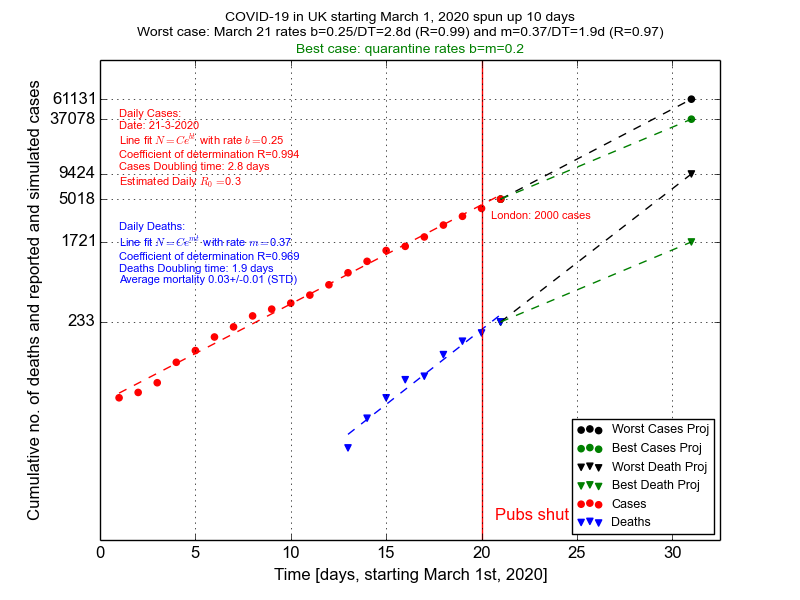
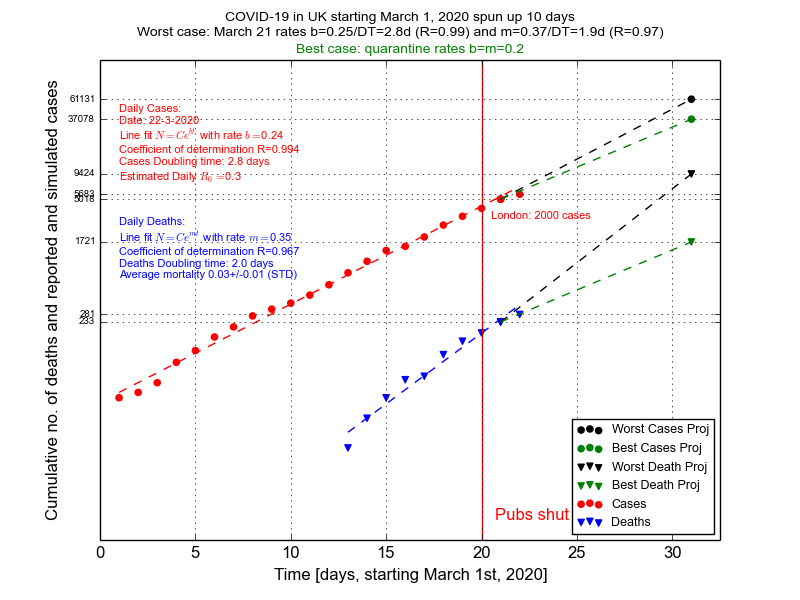
today 22 Mar results UK

diff --git a/cov_lin_models_refactored.py b/cov_lin_models_refactored.py
@@ -361,6 +361,10 @@ def make_simulations_plot(variable_pack, country):
      poly_x_d, y_err, y_err_d, plot_text, plot_text_s,
      plot_text_d, plot_name, slope_d, slope) = variable_pack
 
+    # extract last points for dsiplay
+    curr_case = y_data_real[-1]
+    curr_death = y_deaths_real[-1]
+
     # simulate by death rate scenario
     sim_y_0_real = np.array(y_deaths_real) * 200.  # mrate=0.005
     sim_y_1_real = np.array(y_deaths_real) * 100.  # mrate=0.01
@@ -479,9 +483,11 @@ def make_simulations_plot(variable_pack, country):
         # projection data and ticks
         x0, y0, y0d, y, yd, y_min, yd_min = _compute_projection_uk()
         log_ticks = [np.log(y0), np.log(y), np.log(y0d), np.log(yd),
-                     np.log(y_min), np.log(yd_min)]
+                     np.log(y_min), np.log(yd_min), np.log(curr_case),
+                     np.log(curr_death)]
         real_ticks = [int(y0), int(y), int(y0d), int(yd),
-                      int(y_min), int(yd_min)]
+                      int(y_min), int(yd_min), int(curr_case),
+                      int(curr_death)]
 
         # if slowdown
         if country in SLOWDOWN:
@@ -515,6 +521,7 @@ def make_simulations_plot(variable_pack, country):
         # plot anciliaries
         plt.xlim(0., x0 + 11.5)
         plt.yticks(log_ticks, real_ticks)
+        plt.tick_params(axis="y", labelsize=7)
         plt.xlabel("Time [days, starting March 1st, 2020]")
         plt.ylabel("Cumulative no. of deaths and reported and simulated cases")
         plt.grid()
